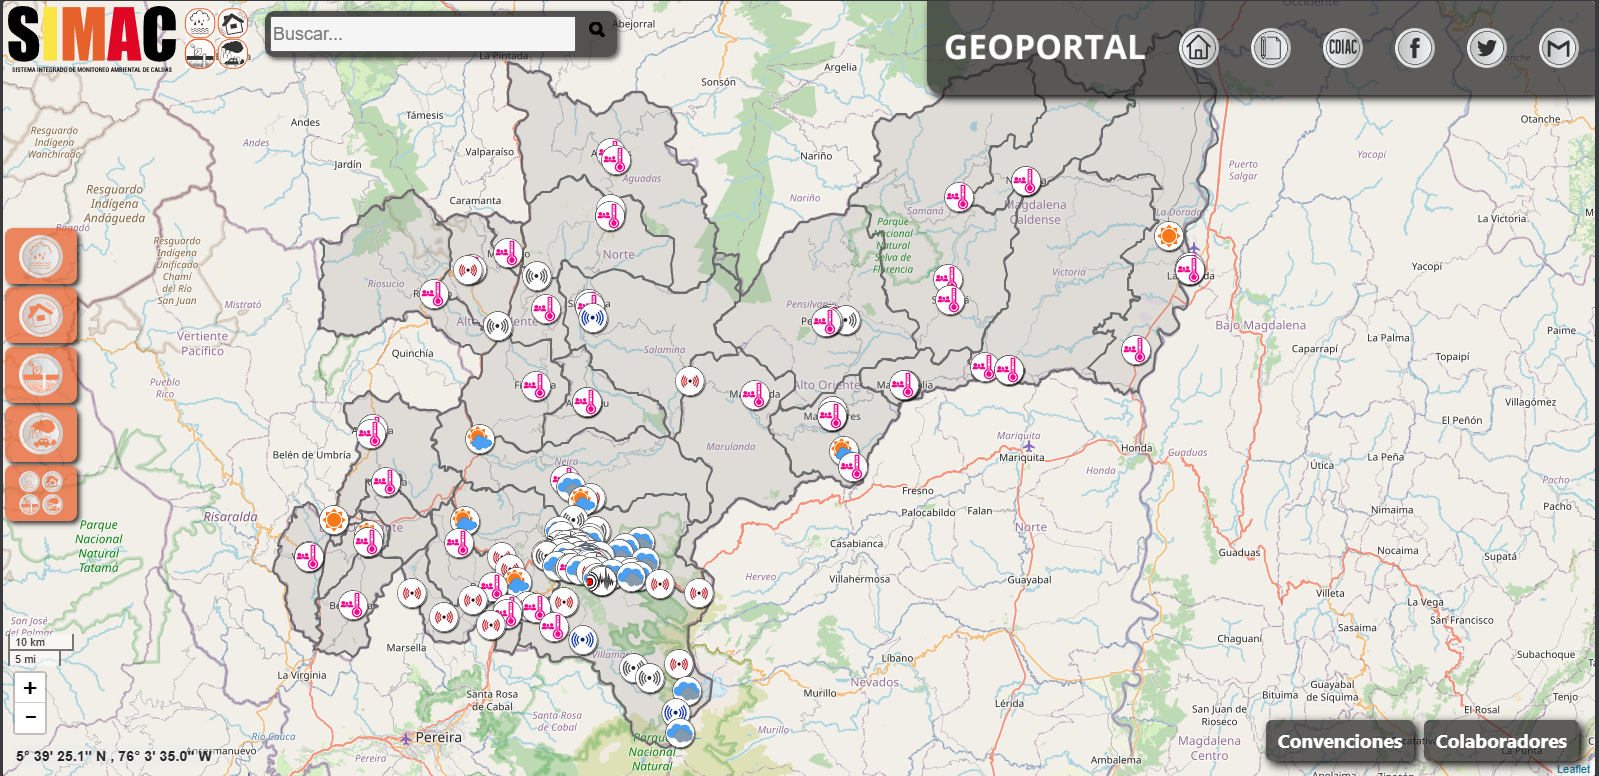
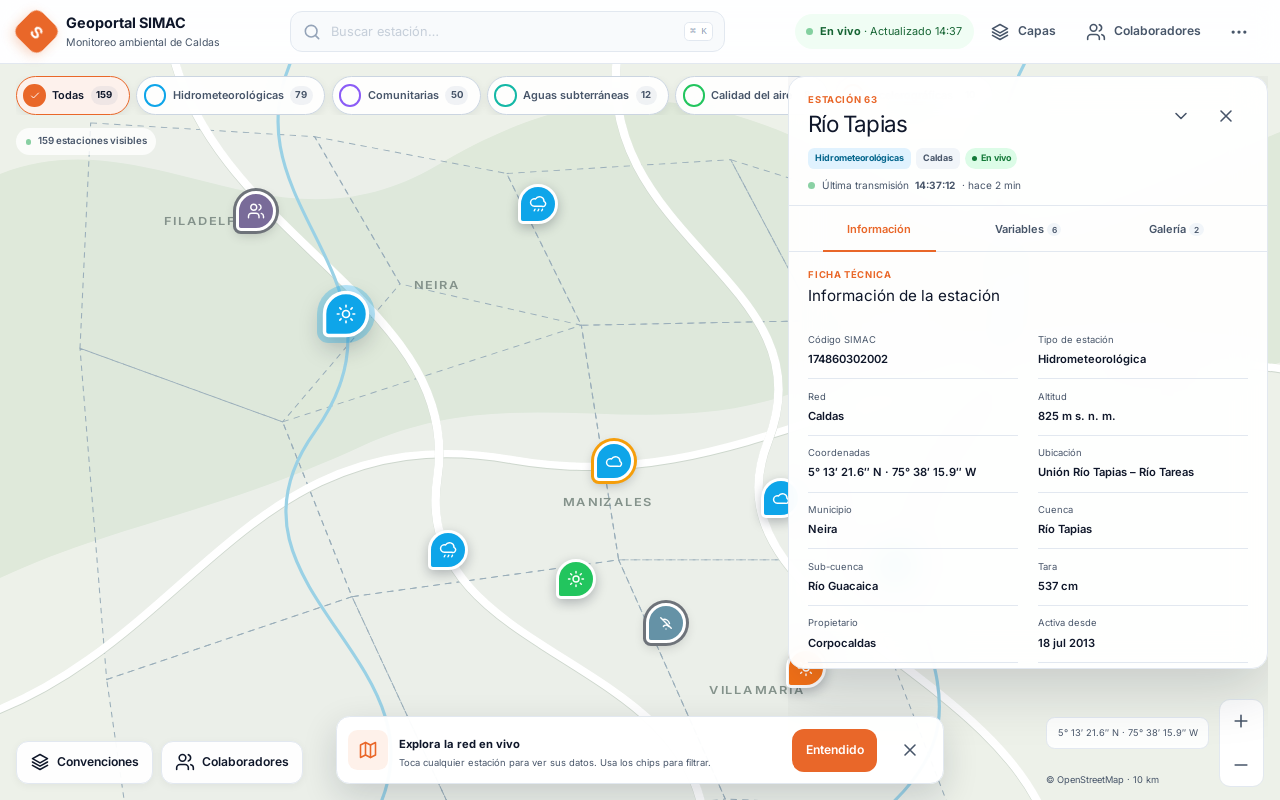
fix projects

diff --git a/Frontend/src/pages/Home/sources.tsx b/Frontend/src/pages/Home/sources.tsx
@@ -19,15 +19,18 @@ import { FaXTwitter } from 'react-icons/fa6'
 import logoAranda from '@/assets/images/logo-aranda.webp'
 import logoGaia from '@/assets/images/logo-gaia.png'
 import logoRoiback from '@/assets/images/logo-roiback.svg'
-import asec from '@/assets/images/projects/asec.png'
-import bh_hotels from '@/assets/images/projects/bh.png'
-import bq_hotels from '@/assets/images/projects/bq.png'
+import contabdsi from '@/assets/images/projects/contabdsi.png'
+import crm from '@/assets/images/projects/crm.png'
+import daisy_bots from '@/assets/images/projects/daisy-bots.png'
+import dracardona from '@/assets/images/projects/dracardona.png'
+import ecommerce from '@/assets/images/projects/ecommerce.png'
 import geoportal from '@/assets/images/projects/geoportal.png'
-import ilunion_hotels from '@/assets/images/projects/ilunion.png'
-import linear_regression from '@/assets/images/projects/regression.png'
-import pert_solver from '@/assets/images/projects/pert.png'
-import storybook from '@/assets/images/projects/storybook.png'
-import tafer_hotels from '@/assets/images/projects/tafer.png'
+import ori from '@/assets/images/projects/ori.png'
+import paimon from '@/assets/images/projects/paimon.png'
+import proddsi from '@/assets/images/projects/proddsi.png'
+import punto_c from '@/assets/images/projects/punto-c.png'
+import sismico from '@/assets/images/projects/sismico.png'
+import terraiaco from '@/assets/images/projects/terraiaco.png'
 
 /* ------------------------------------
 -------------- PERFIL -----------------
@@ -229,75 +232,100 @@ export type Project = {
 
 export const projects: Project[] = [
   {
-    name: 'Aranda Security Compliance (ASEC)',
-    type: 'Plataforma b2b',
-    image: asec,
-    url: 'https://arandasoft.com/productos/aranda-security-compliance/',
-    description:
-      'Plataforma empresarial para gestión de cumplimiento en seguridad de la información, auditorías, riesgos y controles en los dispositivos de TI',
-  },
-  {
-    name: 'Linear regression',
-    type: 'Herramienta de regresión automatizada',
-    image: linear_regression,
-    url: 'https://regression.jcti.xyz',
-    description:
-      'Aplicación web + agente IA, para análisis estadístico que permite cargar archivos y ejecutar una regresión lineal múltiple con interpretación automática de resultados',
-  },
-  {
     name: 'Geoportal SIMAC',
-    type: 'Plataforma de monitoreo ambiental',
+    type: 'Monitoreo ambiental',
     image: geoportal,
-    url: 'https://cdiac.manizales.unal.edu.co/geoportal-simac/',
+    url: 'https://geoportal.jcti.xyz',
     description:
-      'Mapa interactivo para visualización y consulta de datos climatológicos en tiempo real desde estaciones meteorológicas ubicadas en Caldas, Colombia',
+      'Mapa interactivo para visualizar en tiempo real estaciones hidrometeorológicas, comunitarias y de calidad del aire de Caldas, Colombia.',
   },
   {
-    name: 'PERT-Solver',
-    type: 'Herramienta para planificar tiempos',
-    image: pert_solver,
-    url: 'https://pert.jcti.xyz',
+    name: 'Monitor sísmico',
+    type: 'Respuesta a emergencias',
+    image: sismico,
+    url: 'https://sismico.jcti.xyz',
     description:
-      'Aplicación web + agente IA, para análisis estadístico que permite ingresar actividades y ejecutar un análisis para optimizar',
+      'Mapa colaborativo para reportar daños y coordinar ayuda tras un sismo, con reportes por app, SMS y voz, deduplicación con IA y bot de asistencia.',
   },
   {
-    name: 'components-seed',
-    type: 'Mi librería de componentes',
-    image: storybook,
-    url: 'https://components.jcti.xyz',
-    description: 'Aquí muestro el storybook de mi librería de componentes',
+    name: 'Mercaldas · Ecommerce',
+    type: 'Comercio electrónico',
+    image: ecommerce,
+    url: 'https://ecommerce.jcti.xyz',
+    description:
+      'Tienda en línea con catálogo, cotizador, pedidos y entrega, más apps de picking y delivery y un bot de compras con IA.',
   },
   {
-    name: 'BQ hotels',
-    type: 'Plataforma de reservas',
-    image: bq_hotels,
-    url: 'https://www.bqhoteles.com/es/',
+    name: 'Punto C',
+    type: 'Restaurante: reservas y operación',
+    image: punto_c,
+    url: 'https://restaurante.jcti.xyz',
     description:
-      'Sistema web de reservas hoteleras, con landings para cada sección del hotel (habitaciones, ofertas, servicios, etc...)',
+      'Sitio y sistema para restaurante: carta, reservas de mesa, pedidos y paneles de cocina, meseros y administración en tiempo real.',
   },
   {
-    name: 'Ilunion hotels',
-    type: 'Plataforma de reservas',
-    image: ilunion_hotels,
-    url: 'https://www.ilunionhotels.com/',
+    name: 'Dra. Camila Cardona',
+    type: 'Reservas para consultorio',
+    image: dracardona,
+    url: 'https://dracardona.co',
     description:
-      'Sistema web de reservas hoteleras, con landings para cada sección del hotel (habitaciones, ofertas, servicios, etc...)',
+      'Sitio de reservas para consultorio odontológico, con agenda de citas para pacientes y panel de administración para el equipo.',
   },
   {
-    name: 'Tafer hotels',
-    type: 'Plataforma de reservas',
-    image: tafer_hotels,
-    url: 'https://www.taferresorts.com.mx/',
+    name: 'ORI · Movilidad internacional',
+    type: 'Gestión universitaria',
+    image: ori,
+    url: 'https://ori.jcti.xyz',
     description:
-      'Sistema web de reservas hoteleras, con landings para cada sección del hotel (habitaciones, ofertas, servicios, etc...)',
+      'Aplicación para la Oficina de Relaciones Internacionales de la UNAL: convocatorias, movilidad entrante y saliente, documentos, roles y auditoría.',
   },
   {
-    name: 'BH hotels',
-    type: 'Plataforma de reservas',
-    image: bh_hotels,
-    url: 'https://www.bhhoteles.com/',
+    name: 'CRM Mercaldas',
+    type: 'Analítica y campañas',
+    image: crm,
+    url: 'https://crm.jcti.xyz',
     description:
-      'Sistema web de reservas hoteleras, con landings para cada sección del hotel (habitaciones, ofertas, servicios, etc...)',
+      'Panel para gestionar clientes, analítica y campañas, con IA que redacta y explica campañas y modelos de clustering, propensión y uplift.',
+  },
+  {
+    name: 'PRODDSI',
+    type: 'Producción y abastecimiento',
+    image: proddsi,
+    url: 'https://production.jcti.xyz',
+    description:
+      'Panel de producción con compras, inventario, MRP, calidad, mantenimiento, trazabilidad e indicadores OEE para la planta.',
+  },
+  {
+    name: 'CONTABDSI',
+    type: 'Modernización contable',
+    image: contabdsi,
+    url: 'https://finances.jcti.xyz',
+    description:
+      'Interfaz web de contabilidad general: plan de cuentas, terceros y compañías, con asistente contable de IA y migración gradual del sistema heredado.',
+  },
+  {
+    name: 'TerraiaCo',
+    type: 'Asistente IA para tierras',
+    image: terraiaco,
+    url: 'https://terraexpert.jcti.xyz',
+    description:
+      'Asistente conversacional que ayuda a evaluar terrenos: valoración de precio, riesgos, revisión legal de documentos e inspección de campo.',
+  },
+  {
+    name: 'Paimon',
+    type: 'APIs de IA multimodal',
+    image: paimon,
+    url: 'https://paimon.jcti.xyz',
+    description:
+      'Servicios de IA para transcripción de audio, generación y edición de imágenes, eliminación de fondo, texto a voz y búsqueda semántica (RAG).',
+  },
+  {
+    name: 'Daisy bots',
+    type: 'Bots de WhatsApp',
+    image: daisy_bots,
+    url: 'https://bot-platform.jcti.xyz',
+    description:
+      'Plataforma para operar bots de WhatsApp: panel web, API y webhooks para automatizar conversaciones y atención.',
   },
 ]
 
